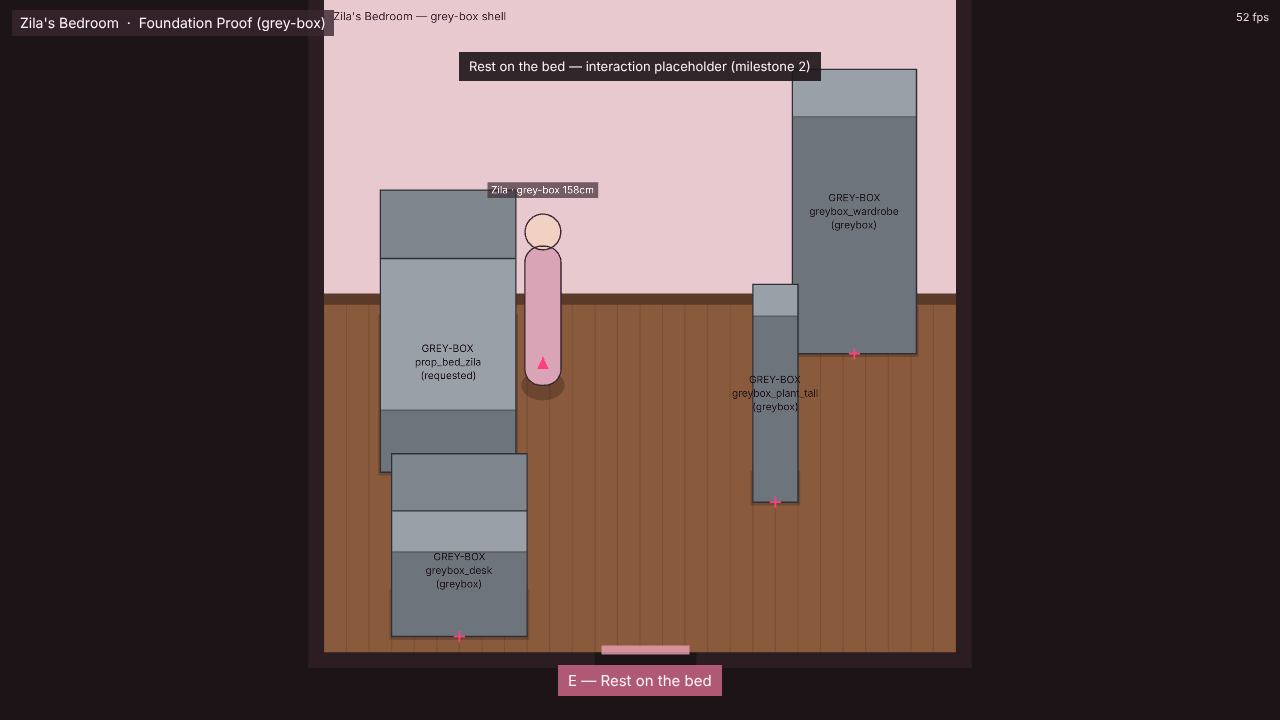
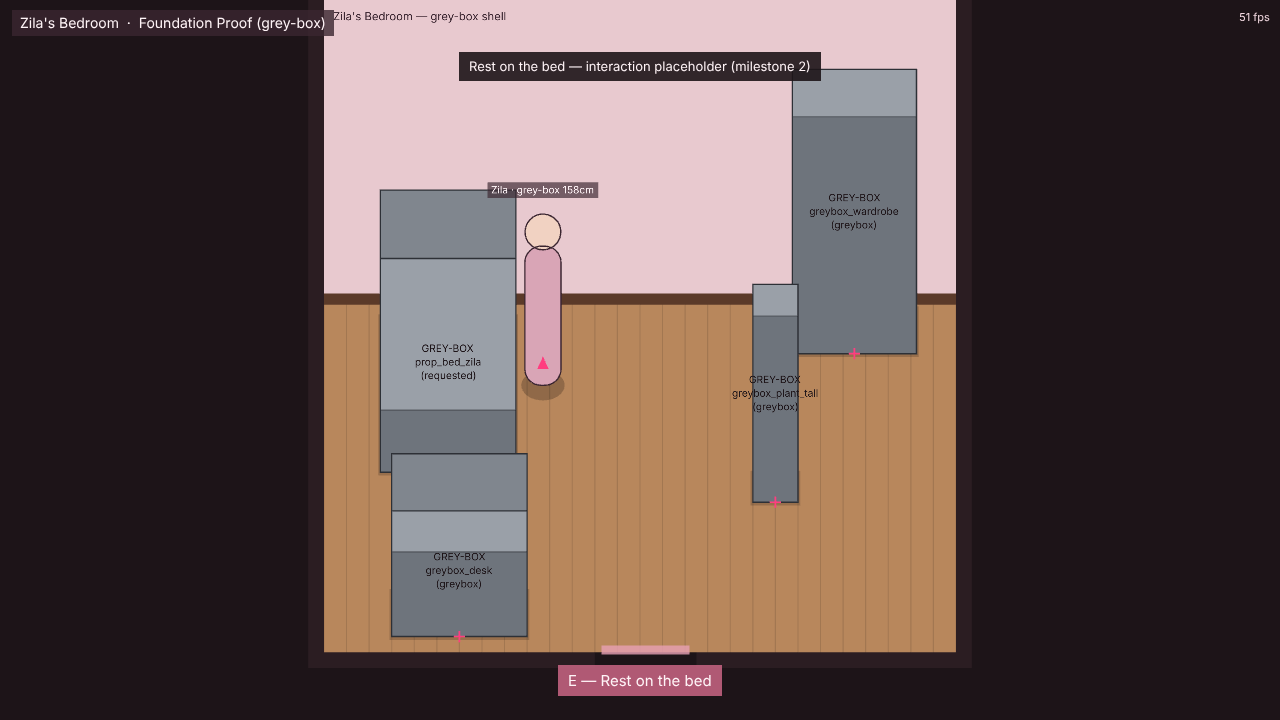
review(prop_bed_zila v001): gameplay integration review + engine fixes
Review of PR #1 (candidate C) with scratch-copy integration; manifest untouched.
- docs/reviews/prop_bed_zila-v001.md + screenshots (desktop SD/HD, emulated mobile)
- Occlusion fades only when the actor's head band is hidden (low furniture no longer fades)
- Engine-rendered soft cast shadow under sprite props (Art Bible §7)
- Readable camera zoom on short phone-landscape screens; prompt clears touch button
- ?debug overlay (collision, footprints, pivots, anchors) and dev review room
- Pipeline: snap alpha >= 250 to 255 in fit-to-spec and runtime derivatives
- Validator: passing 'spec exists' check no longer prints a failure detail
- Art Bible v1.1: occlusion rule, floor/furniture value separation, alpha rule

Claude-Session: https://claude.ai/code/session_01P67KtqJMN8ARmJbwhSuoYs

Changed region(s): [[0.25, 0.3972, 0.75, 0.9167], [0.9688, 0.0, 1.0, 0.0306]]

diff --git a/src/scenes/RoomScene.ts b/src/scenes/RoomScene.ts
@@ -1,6 +1,6 @@
 import * as Phaser from 'phaser';
 import { groundToRender, DEPTH_SCALE } from '../core/projection';
-import { getCharacterSpec, type CharacterSpec } from '../core/specs';
+import { getCharacterSpec, type CharacterSpec, type PropSpec } from '../core/specs';
 import { compileRoom, getRoom, DOOR_DEPTH, type CompiledRoom, type RoomDoor } from '../world/room';
 import { moveWithCollision } from '../world/collision';
 import { actorSortDepth, occludingProps, type SortableActor } from '../world/depth';
@@ -24,6 +24,7 @@ export class RoomScene extends Phaser.Scene {
   private facingDir: Direction = 'S';
   private actorView!: Phaser.GameObjects.Container;
   private facingView!: Phaser.GameObjects.Graphics;
+  private debugActor?: Phaser.GameObjects.Graphics;
   private propViews = new Map<string, Phaser.GameObjects.GameObject & Phaser.GameObjects.Components.AlphaSingle & Phaser.GameObjects.Components.Depth>();
   private keyboard!: KeyboardInput;
   private input$!: InputState;
@@ -35,6 +36,7 @@ export class RoomScene extends Phaser.Scene {
 
   create(data: RoomSceneData): void {
     this.transitioning = false;
+    this.debugActor = undefined;
     this.propViews.clear();
     this.room = compileRoom(getRoom(data.roomId));
     this.character = getCharacterSpec('char_zila');
@@ -59,6 +61,7 @@ export class RoomScene extends Phaser.Scene {
     this.events.once('shutdown', () => this.scale.off('resize', this.fitCamera, this));
     this.cameras.main.fadeIn(220, 29, 20, 24);
 
+    if (new URLSearchParams(location.search).has('debug')) this.drawDebugOverlay();
     this.game.events.emit('room-entered', this.room.data);
     this.persist();
     this.syncActor();
@@ -70,8 +73,11 @@ export class RoomScene extends Phaser.Scene {
     const { w, h } = this.room.data.sizeCm;
     const renderH = h * DEPTH_SCALE + this.room.data.wallHeightCm;
     const fit = Math.min(cam.width / (w + 80), cam.height / (renderH + 60));
-    // Never so far out that a character is shorter than ~22% of the screen height.
-    const minForReadability = (cam.height * 0.22) / this.character.heightCm;
+    // Never so far out that a character is too small to read: ~22% of the screen height on desktop,
+    // ~36% on short phone-landscape screens (CSS height < 500), where whole-room framing is too small.
+    const dpr = (this.registry.get('dpr') as number | undefined) ?? 1;
+    const share = cam.height / dpr < 500 ? 0.36 : 0.22;
+    const minForReadability = (cam.height * share) / this.character.heightCm;
     const zoom = Math.max(fit, minForReadability);
     cam.setZoom(zoom);
     // Bounds are at least one view in size and centred on the room, so small rooms sit centred on screen.
@@ -125,6 +131,7 @@ export class RoomScene extends Phaser.Scene {
       let view;
       if (entry?.status === 'approved' && this.textures.exists(key)) {
         const density = densities[p.spec.id] ?? p.spec.density;
+        this.drawPropShadow(p.spec, p.x, p.y);
         view = this.add.image(pivot.x, pivot.y, key)
           .setOrigin(p.spec.pivot.x / p.spec.canvas.width, p.spec.pivot.y / p.spec.canvas.height)
           .setScale(1 / density);
@@ -133,6 +140,44 @@ export class RoomScene extends Phaser.Scene {
       }
       view.setDepth(p.y);
       this.propViews.set(p.key, view);
+    }
+  }
+
+  /** ?debug — collision solids (red), footprints (pink), pivots (black +), anchors (green), actor radius (cyan). */
+  private drawDebugOverlay(): void {
+    const g = this.add.graphics().setDepth(1e6);
+    const rect = (r: { x: number; y: number; w: number; h: number }) => {
+      const a = groundToRender(r.x, r.y);
+      const b = groundToRender(r.x + r.w, r.y + r.h);
+      return [a.x, a.y, b.x - a.x, b.y - a.y] as const;
+    };
+    g.lineStyle(1.5, 0xff2d2d, 0.9);
+    for (const s of this.room.solids) g.strokeRect(...rect(s));
+    for (const p of this.room.props) {
+      g.lineStyle(1, 0xff3d7f, 1).strokeRect(...rect(p.sortable.footprint));
+      const pv = groundToRender(p.x, p.y);
+      g.lineStyle(2, 0x000000, 1).lineBetween(pv.x - 6, pv.y, pv.x + 6, pv.y).lineBetween(pv.x, pv.y - 6, pv.x, pv.y + 6);
+    }
+    for (const a of this.room.anchors) {
+      const c = groundToRender(a.x, a.y);
+      g.lineStyle(1, 0x2fd07a, 0.9).strokeEllipse(c.x, c.y, a.radiusCm * 2, a.radiusCm * 2 * DEPTH_SCALE);
+    }
+    this.debugActor = this.add.graphics().setDepth(1e6 + 1);
+  }
+
+  /**
+   * Engine-rendered soft cast shadow (Art Bible §7: cast shadows are never baked into art).
+   * Light from the upper-left → shadow falls slightly right and toward the viewer, on the floor plane.
+   */
+  private drawPropShadow(spec: PropSpec, x: number, y: number): void {
+    const g = this.add.graphics().setDepth(-50000);
+    const w = spec.footprint.widthCm;
+    const d = spec.footprint.depthCm * DEPTH_SCALE;
+    const front = groundToRender(x, y).y;
+    const ox = 5, oy = 3;
+    const steps = [{ grow: 10, a: 0.05 }, { grow: 6, a: 0.07 }, { grow: 2, a: 0.1 }];
+    for (const s of steps) {
+      g.fillStyle(0x2a1620, s.a).fillRoundedRect(x - w / 2 - s.grow / 2 + ox, front - d - s.grow / 2 + oy, w + s.grow, d + s.grow, Math.min(12, (d + s.grow) / 2));
     }
   }
 
@@ -159,6 +204,10 @@ export class RoomScene extends Phaser.Scene {
     this.actorView.setPosition(r.x, r.y);
     const v = DIR_VEC[this.facingDir];
     this.facingView.setRotation(Math.atan2(v.y * DEPTH_SCALE, v.x));
+    if (this.debugActor) {
+      const rad = this.character.collision.radiusCm;
+      this.debugActor.clear().lineStyle(1.5, 0x00e5ff, 1).strokeEllipse(r.x, r.y, rad * 2, rad * 2 * DEPTH_SCALE);
+    }
     const actor: SortableActor = {
       x: this.pos.x, y: this.pos.y, radius: this.character.collision.radiusCm,
       renderBounds: { x: r.x - this.character.collision.radiusCm, y: r.y - this.character.heightCm, w: this.character.collision.radiusCm * 2, h: this.character.heightCm },

diff --git a/src/world/depth.ts b/src/world/depth.ts
@@ -40,12 +40,21 @@ export function rectOverlapArea(a: Rect, b: Rect): number {
   return w > 0 && h > 0 ? w * h : 0;
 }
 
-/** Props drawn in front of the actor that hide a meaningful part of it, and should fade. */
-export function occludingProps(actor: SortableActor, actorDepth: number, props: readonly SortableProp[], minCoverage = 0.15): string[] {
-  const area = actor.renderBounds.w * actor.renderBounds.h;
+/** Fraction of the actor's height (from the top) treated as head & shoulders for occlusion. */
+export const HEAD_BAND = 0.3;
+
+/**
+ * Props drawn in front of the actor that hide its head & shoulders, and should therefore fade.
+ * Low furniture (beds, sofas, desks) that only hides legs or torso does NOT fade — that natural
+ * overlap is what makes the actor read as standing behind it.
+ */
+export function occludingProps(actor: SortableActor, actorDepth: number, props: readonly SortableProp[], minCoverage = 0.25): string[] {
+  const b = actor.renderBounds;
+  const head = { x: b.x, y: b.y, w: b.w, h: b.h * HEAD_BAND };
+  const area = head.w * head.h;
   if (area <= 0) return [];
   return props
     .filter((p) => p.occluder && p.pivotY > actorDepth)
-    .filter((p) => rectOverlapArea(actor.renderBounds, p.renderBounds) / area >= minCoverage)
+    .filter((p) => rectOverlapArea(head, p.renderBounds) / area >= minCoverage)
     .map((p) => p.id);
 }

diff --git a/tests/unit/depth.test.ts b/tests/unit/depth.test.ts
@@ -21,6 +21,12 @@ describe('depth sorting', () => {
     expect(d).toBeLessThan(plant.pivotY);
     expect(occludingProps(a, d, [plant])).toEqual(['plant']);
   });
+  it('a low bed with a 110cm headboard does not fade when the actor stands behind it', () => {
+    // free-standing bed: pivot 350, footprint y 150..350, volume top = 150*0.7 - 110 = -5
+    const freeBed: SortableProp = { id: 'bed', pivotY: 350, footprint: { x: 260, y: 150, w: 120, h: 200 }, renderBounds: { x: 260, y: -5, w: 120, h: 250 }, occluder: true };
+    const a = actor(320, 128);
+    expect(occludingProps(a, actorSortDepth(a, [freeBed]), [freeBed])).toEqual([]);
+  });
   it('actor in front of the occluder does not fade it', () => {
     const a = actor(400, 290);
     expect(occludingProps(a, actorSortDepth(a, [plant]), [plant])).toEqual([]);

diff --git a/src/scenes/UIScene.ts b/src/scenes/UIScene.ts
@@ -62,7 +62,8 @@ export class UIScene extends Phaser.Scene {
     const width = this.scale.width / this.dpr;
     const height = this.scale.height / this.dpr;
     this.fps.setPosition(width - 10, 10);
-    this.prompt.setPosition(width / 2, height - 24);
+    const touch = this.sys.game.device.input.touch;
+    this.prompt.setPosition(touch ? Math.min(width / 2, width - 150) : width / 2, height - (touch && width < 600 ? 120 : 24));
     this.toast.setPosition(width / 2, 52);
     this.actBtn.setPosition(width - 64, height - 70);
   }

diff --git a/docs/reviews/prop_bed_zila-v001.md b/docs/reviews/prop_bed_zila-v001.md
@@ -1,0 +1,62 @@
+# Review — `prop_bed_zila` v001 (PR #1, candidate C)
+
+**Reviewer:** Claude Code (technical + consistency) · **Date:** 2026-11-18
+**Status:** TECHNICAL PASS · VISUAL: **pending Creative Director** · PRODUCTION READY: no
+**Recommendation:** accept candidate C as v001. No v002 regeneration needed.
+
+PR: https://github.com/nugrohofebri681-oss/ZsRoom/pull/1. Not merged, and the manifest is not modified. The gameplay integration below ran in a scratch copy only.
+
+## Evidence (`docs/reviews/prop_bed_zila-v001/`)
+| # | File | Shows |
+|---|---|---|
+| 01 | raw-candidates-abc | All three raw generator outputs on checker |
+| 02 | master-template-floors-sd | Master with spec template overlay; light floor; night floor; SD 1 px/cm |
+| 03 | desktop-720p-sd-rest | In-game, 1280×720, SD texture, character at the "rest" anchor |
+| 04 | desktop-debug-collision-pivot | `?debug`: collision (red), footprint (pink), pivot (+), anchors (green) |
+| 05 | occlusion-shadow-before-after | Engine fixes made during this review |
+| 06 | review-room-in-front | Free-standing bed, character in front of the foot |
+| 07 | desktop-1080p-hd | 1920×1080, HD texture |
+| 08 / 09 | mobile-landscape / portrait | Emulated budget Android at 2× DPR, HD texture |
+
+## Technical assessment
+- `validate-art` reproduces locally: **23/23 checks pass**. Canvas 384×576, bounding box (67,34) 250×511, base row 543 vs pivot 544, coverage 0.54. Ownership is clean: 7 files, all in the allowed paths. The PR's GitHub art workflow also passed.
+- **Pivot alignment:** the legs land on the pivot line, and the painted bed matches the footprint and collision box (04).
+- **Collision:** stops at x = 191 approaching from the right (expected 174 + 16) and y = 229 approaching from the south (expected 228). No art hangs outside the 128 cm collision width.
+- **Depth sorting:** correct beside the bed, near the head, and in front of the foot (05, 06).
+- **Geometry vs spec:**
+  - The front (foot) face is about 49.5 cm tall vs 55 cm.
+  - The headboard top is at y 35 vs 44, so about 4.5 cm too tall.
+  - Both are within about 10% and invisible at gameplay zoom.
+- **Alpha:** 97% of solid pixels are alpha 250–254. That's imperceptible on screen, but technically incorrect. The pipeline now snaps these to 255 in runtime textures and in `fit-to-spec`, so no re-export is needed.
+- **Runtime cost:** HD 136 KB, SD 40 KB lossless WebP. The correct density loaded at every viewport tested. Zero console errors.
+
+## Artistic assessment
+**Strengths**
+- Premium painted look that is clearly not pixel art and not a 3D render.
+- Coherent palette that hits the Art Bible tokens.
+- Clean edges on both light and night floors, with no halos.
+- Parallel sides with no perspective flare.
+- The heart cushion is an iconic, readable identity mark, even at phone scale.
+- Strong continuity with the original room: pink duvet, cream pillows, wooden headboard, heart cushion.
+
+**Minor deviations (not worth a revision on their own)**
+- The upper-left key light is weak; the shading is nearly frontal and symmetric.
+- Line hierarchy is softer than the Art Bible asks for, but the silhouette still reads at SD thanks to value contrast.
+- The rendering is slightly "plush/product-like". This should become the style anchor so later assets match it, rather than pushing the bed toward other assets.
+
+**Candidates**
+- **A:** almost no front (foot) face, so it reads as a flat plan view. The diamond quilting gets busy at SD.
+- **B:** strongest foot drape, but the duvet flares wider toward the foot, which breaks the parallel-projection rule.
+- **C:** parallel silhouette, clear foot face, quiet square quilting that reads best at small size. **C is the right pick.**
+
+## Problems found in gameplay — all engine-side, fixed on `claude/art-review-tools`
+1. **Low furniture faded when the character stood behind it** (05 before): the whole bed dropped to 40%. Now objects fade only when they hide the character's head and shoulders. A unit test covers this.
+2. **No cast shadow:** the Art Bible assigns floor shadows to the engine, which didn't draw them yet. Now there's a soft footprint shadow offset away from the upper-left light.
+3. **Walnut bed on a walnut floor** hid the legs. The grey-box floors are now lighter, and Art Bible v1.1 §6 requires floors to be visibly lighter than furniture wood.
+4. **Phone landscape camera** framed the bed too small. The character is now about 36% of screen height on short screens.
+5. **Portrait mode:** the interact prompt was under the E button. The prompt is moved up.
+6. **Near-opaque alpha** is snapped to 255 in the pipeline (Art Bible v1.1 §13).
+
+## Decision requested
+- **Recommended:** grant VISUAL PASS to v001 candidate C. Claude then runs `approve-asset`, merges PR #1 into `reboot/foundation`, and runs gameplay regression.
+- **Alternative:** if you want stronger directional light or crisper contours as a house standard, say so. A v002 brief will target only those two points.

diff --git a/art-bible/ART_BIBLE.md b/art-bible/ART_BIBLE.md
@@ -1,4 +1,4 @@
-# ZsRoom Art Bible — v1.0
+# ZsRoom Art Bible — v1.1
 
 **Style name:** ZsRoom OG Enhanced — Premium HD Illustrated 2D
 **Status:** v1.0 technical standard (Claude Code). Characters §8 are **draft — pending Creative Director approval**.
@@ -91,7 +91,7 @@ Master palette (anchor swatches — local colours may shift around them, but sta
 | leaf | `#6E9B5A` | Plants |
 | febri-blue | `#5B7FB5` | Febri's shirt |
 
-Rules: no pure `#000000`; no fully saturated primaries; shadows shift **toward plum/warm**, highlights toward **warm cream**. Saturation is highest in mid-tones.
+Rules: **floors and furniture must separate in value** — floors use lighter honey/oak woods or tile (≈ 15 %+ lighter than `walnut`), so walnut furniture legs and frames stay readable where they meet the floor. No pure `#000000`; no fully saturated primaries; shadows shift **toward plum/warm**, highlights toward **warm cream**. Saturation is highest in mid-tones.
 
 ## 7. Line work, materials, lighting, shadows
 
@@ -143,7 +143,8 @@ Each prop spec defines: `footprint` (true floor size), `collision` rectangles re
 
 ## 12. Occlusion & depth sorting
 
-- Depth = ground y of the pivot (front edge of the footprint). Characters standing **beside** a deep object sort in front of it; standing **behind** a tall object (`occluder: true`) fades the object to ≈ 42 % opacity.
+- Depth = ground y of the pivot (front edge of the footprint). Characters standing **beside** a deep object sort in front of it.
+- A character **behind** an object is simply overlapped by it. The object fades to ≈ 42 % opacity **only when it hides the character's head and shoulders** (top 30 % of their height) — tall wardrobes, plants, shelves. Low furniture (beds, sofas, desks) never fades; the overlap is what tells the player where they stand.
 - Therefore every prop must be **one clean piece** whose silhouette matches its true volume — no floating decorations far outside the footprint.
 - Tall back-wall objects (wardrobes, shelves) are authored as single sprites; very large structures (buildings) will be split into base + roof layers (future spec).
 
@@ -152,7 +153,7 @@ Each prop spec defines: `footprint` (true floor size), `collision` rectangles re
 | Property | Requirement |
 |---|---|
 | Format | PNG, 8-bit per channel, RGBA, sRGB |
-| Alpha | Straight (unpremultiplied); real transparency, never a baked checkerboard or white |
+| Alpha | Straight (unpremultiplied); real transparency, never a baked checkerboard or white. Solid areas fully opaque (alpha ≥ 250 is snapped to 255 by the pipeline) |
 | Canvas | Exactly the spec canvas; transparent edge padding as specified |
 | Base | Lowest solid row on the spec `baseLine` ± tolerance |
 | Name | `<asset_id>_<v###>.png` in `art/submissions/<asset_id>/<v###>/` |
@@ -178,4 +179,5 @@ Passing step 1 never implies step 2.
 
 ## Changelog
 
+- **v1.1 (2026-11-18)** — From the `prop_bed_zila` v001 gameplay review: occlusion fades only when the head is hidden (§12); floor/furniture value separation (§6); near-opaque alpha (≥ 250) is snapped to 255 by `fit-to-spec.mjs` and in runtime textures (§13).
 - **v1.0 (2026-11-18)** — Clean-rebuild Art Bible. Projection, units, scale, palette, materials, lighting, export, review gates. Characters drafted for CD approval.
